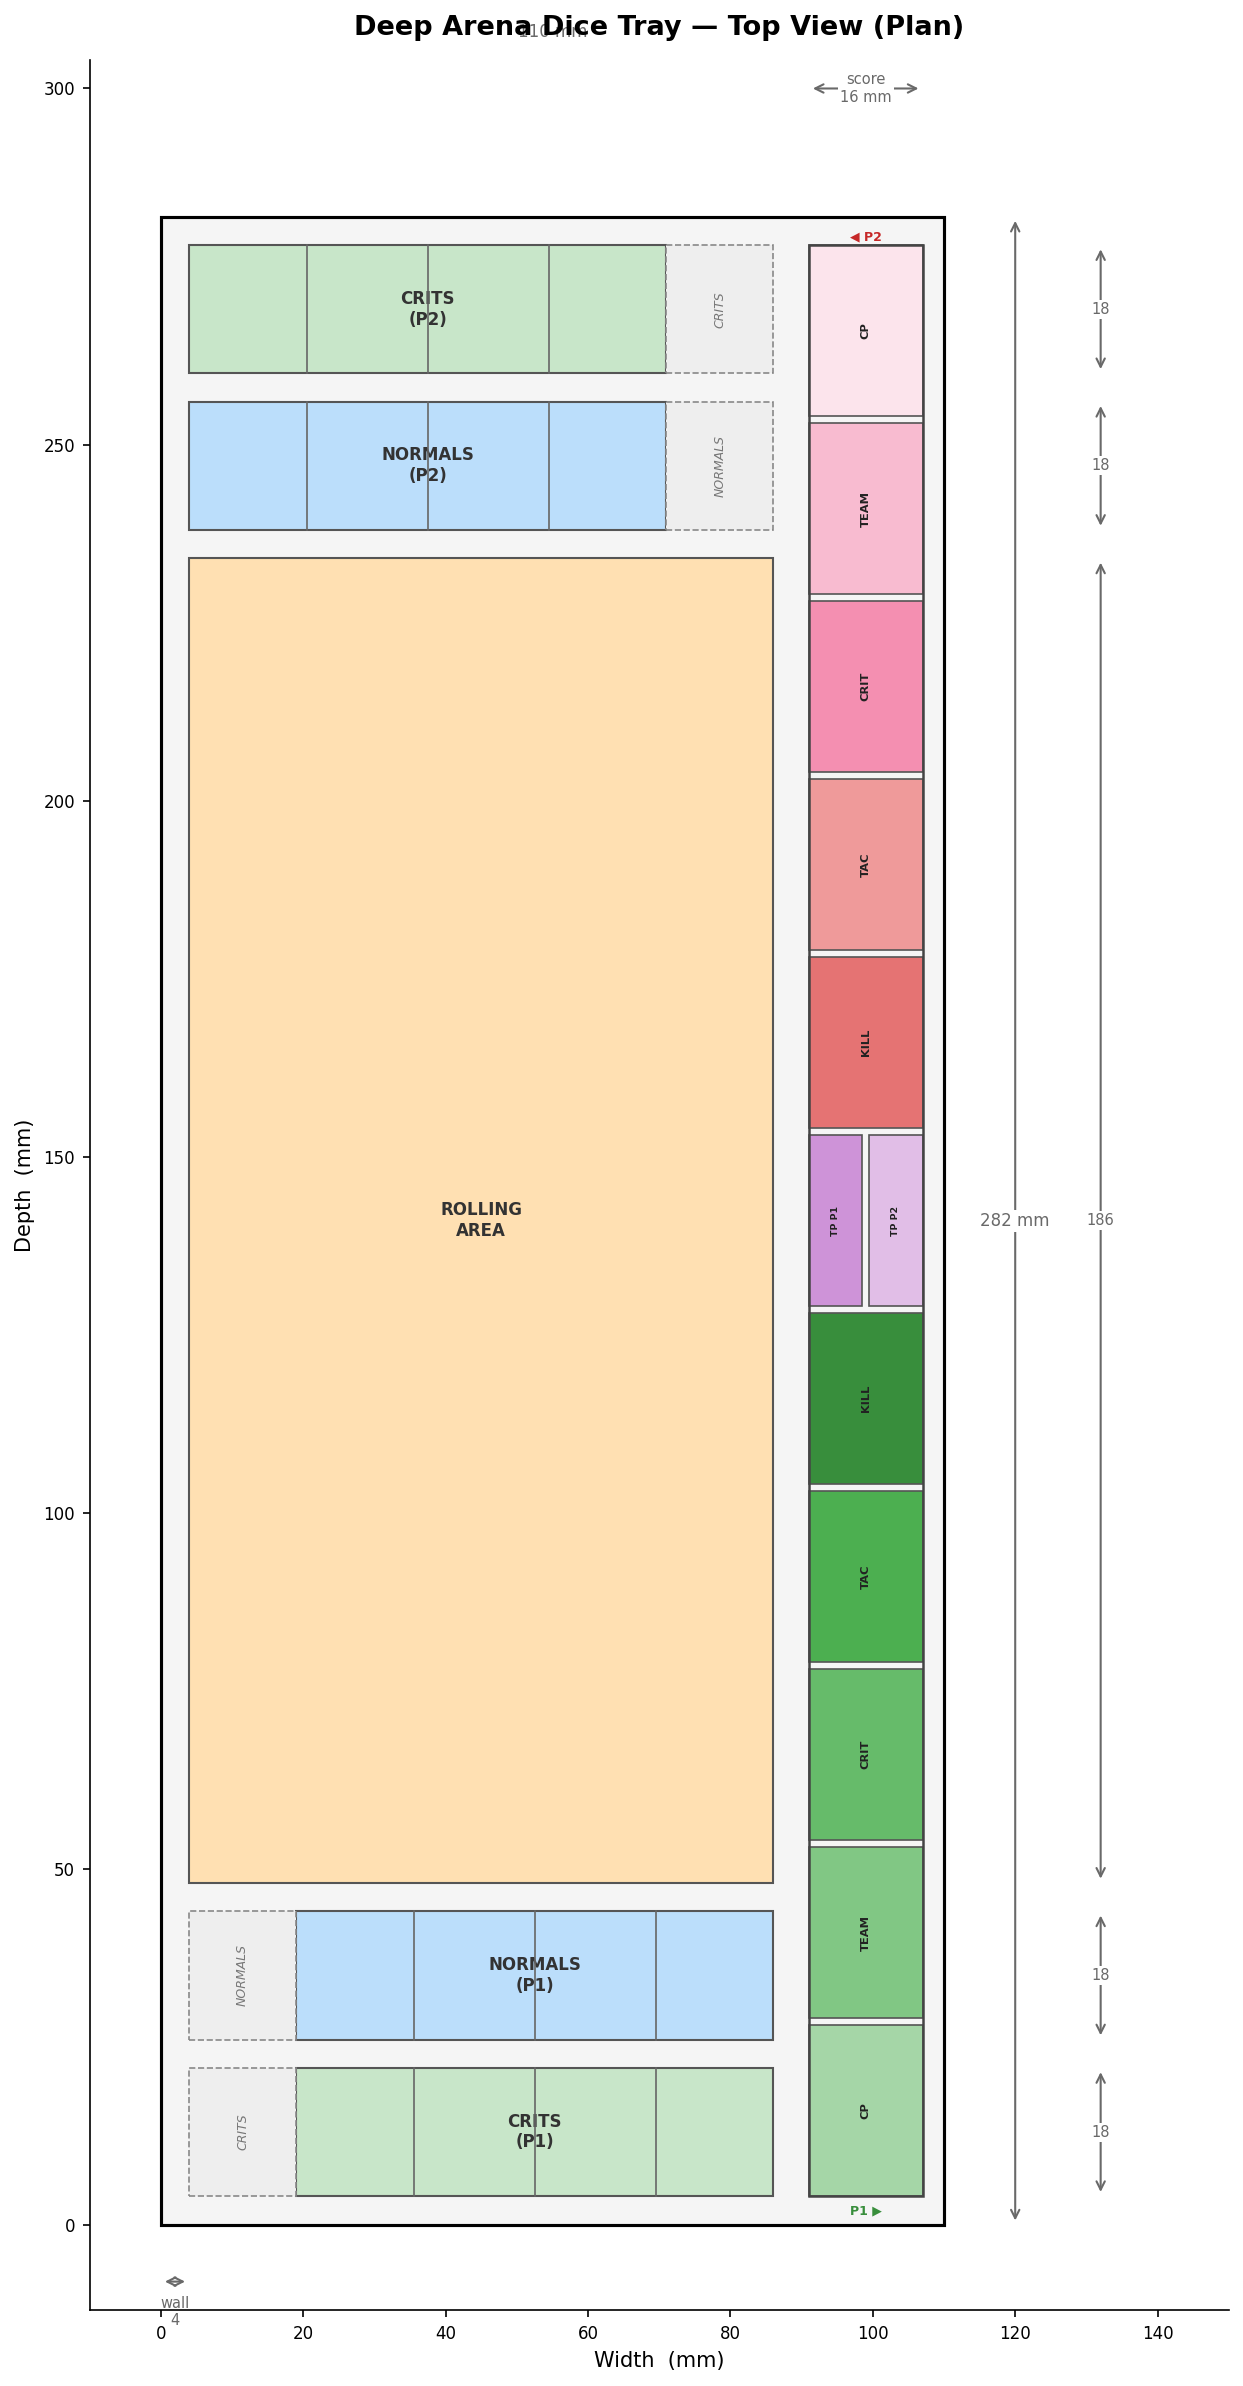
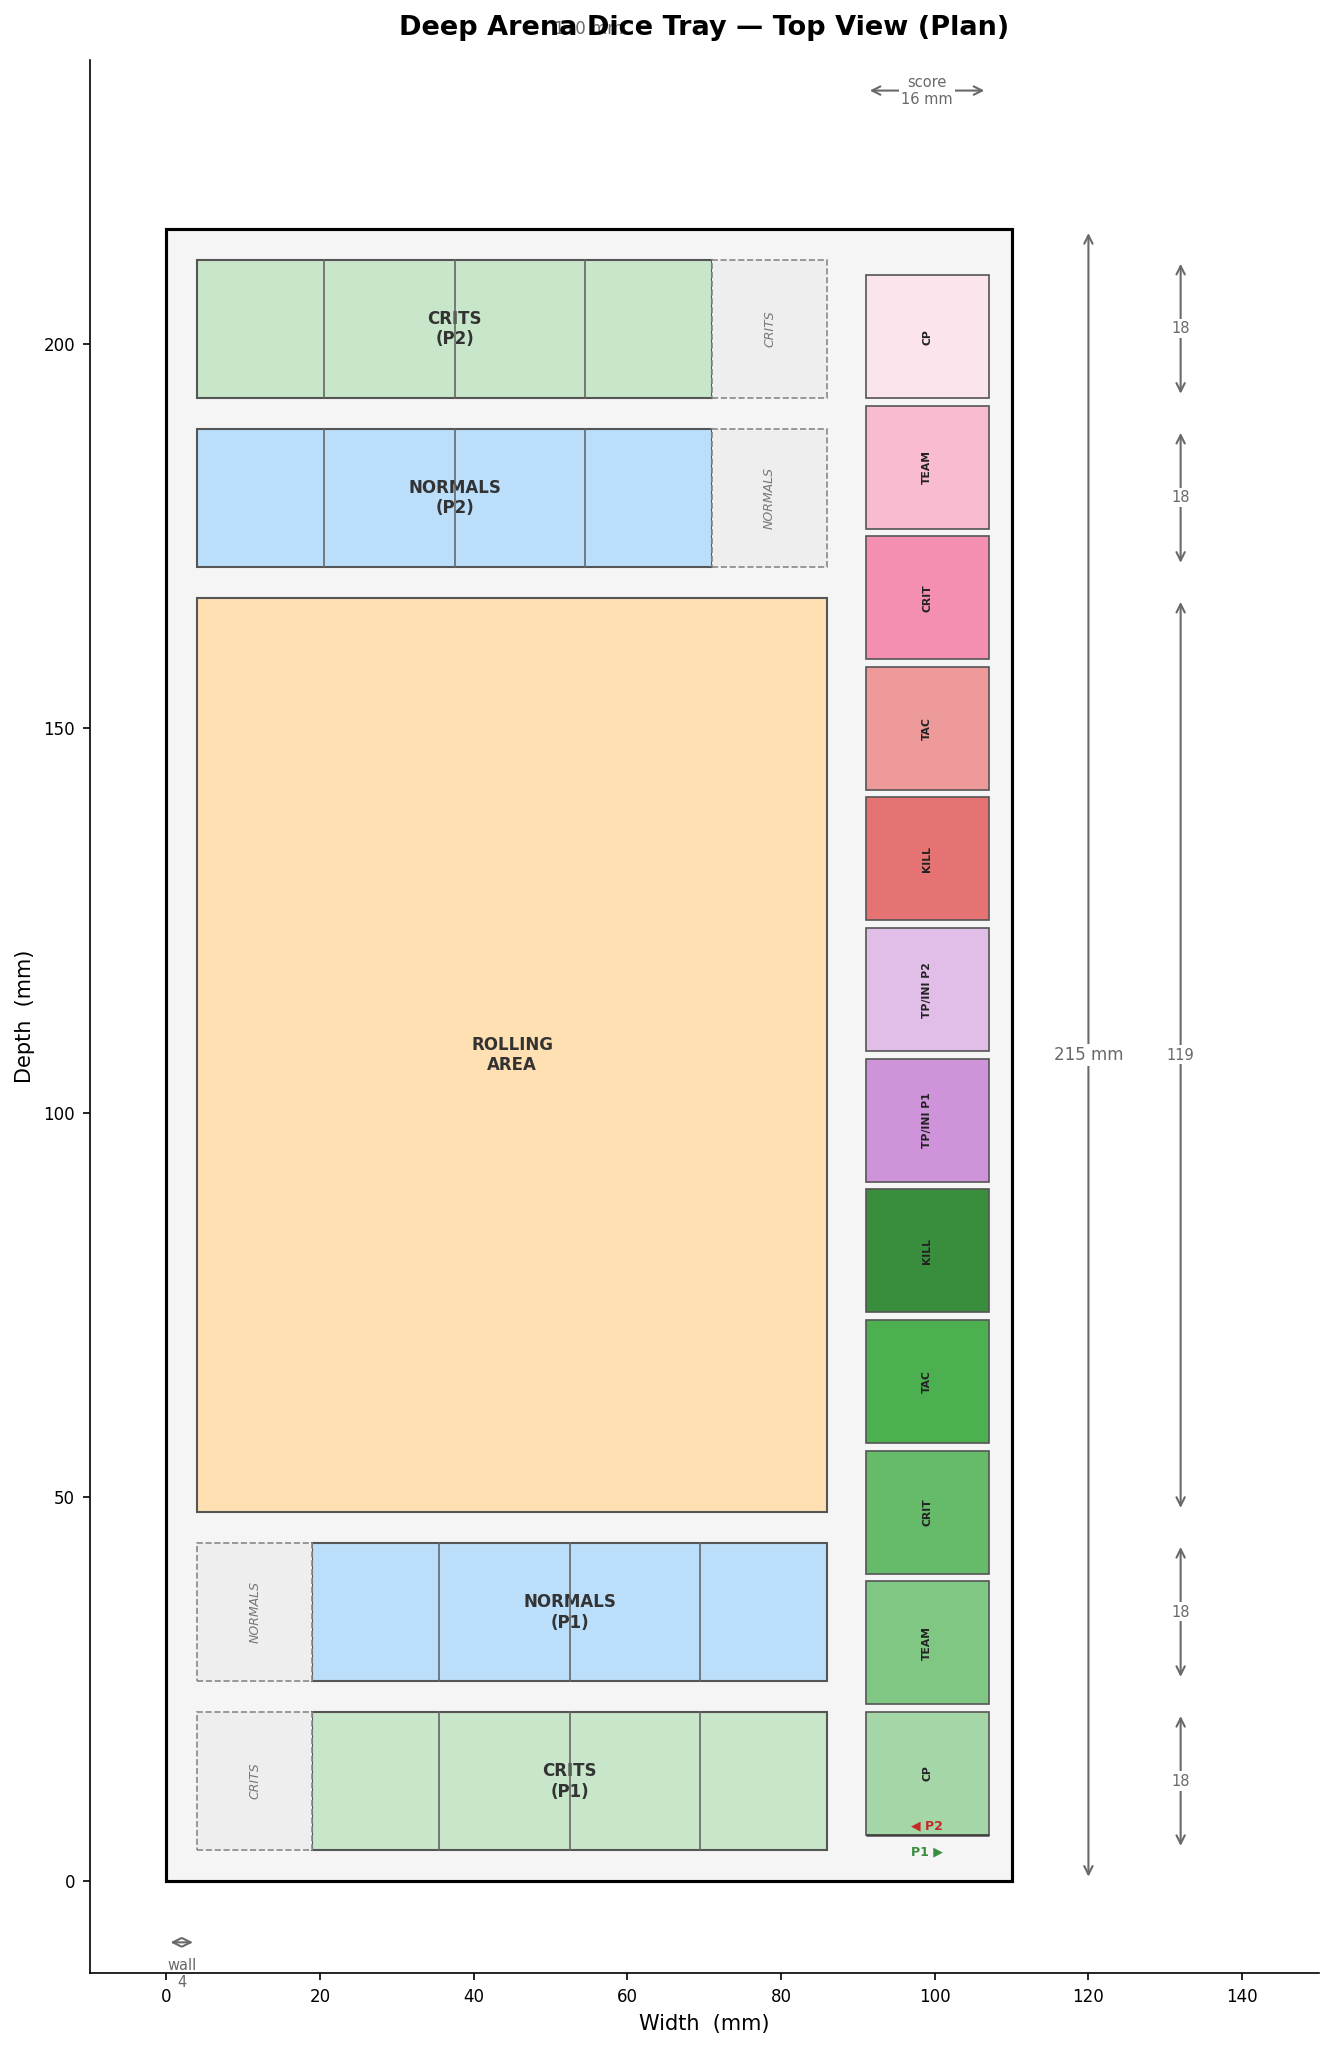
v3-score-tracker: finalize geometry with 215mm depth, fitted score strip, and corrected rolling area
- Set total_depth = 215mm (score span 203mm + 2mm buffer each end + 8mm walls)
- Score strip runs full interior depth with 2mm clearance at each end
- Reduced rolling area to 119mm depth to fit layout
- Fixed roll_d as literal value so diagram generator calculates correct total_depth
- All dice and score regions now confirmed within main box bounds
- Updated generate_diagrams.py to parse score_buffer parameter
- Regenerated all version diagrams (v1-original, v2-improved, v3-score-tracker)

diff --git a/wargaming/KT-dice-tray/generate_diagrams.py b/wargaming/KT-dice-tray/generate_diagrams.py
@@ -48,6 +48,7 @@ roll_d        = 100.0
 score_slot_d  = 16.0   # Y-depth of each score slot
 score_gap_w   = 1.0
 score_full_depth = 0
+score_buffer   = 0.0
 
 macro_path = os.path.join(OUT_DIR, "deep_arena_dice_tray.py")
 if os.path.exists(macro_path):
@@ -65,6 +66,7 @@ if os.path.exists(macro_path):
                 (r"score_slot_d\s*=\s*([0-9.]+)",   "score_slot_d"),
                 (r"score_gap_w\s*=\s*([0-9.]+)",    "score_gap_w"),
                 (r"score_full_depth\s*=\s*(True|False)", "score_full_depth"),
+                (r"score_buffer\s*=\s*([0-9.]+)",   "score_buffer"),
             ]:
                 _m = re.match(r"^\s*" + _pat, _line)
                 if _m:
@@ -106,22 +108,19 @@ else:
     roll_w        = width - wall * 2
 
 if has_score_strip and score_full_depth:
-    score_start_y = wall
-    score_span_d = total_depth - 2 * wall
-    score_slot_d = (score_span_d - max(0, n_score - 1) * slot_div) / max(1, n_score)
-else:
-    score_start_y = 0.0
+    score_span_d = n_score * score_slot_d + max(0, n_score - 1) * slot_div
+    score_start_y = wall + score_buffer
     score_span_d = 0.0
 
-# ── Score category labels (symmetric, P1 top → P2 bottom) ────────────────────
-# CP | TEAM | CRIT | TAC | KILL | TP/INI | KILL | TAC | CRIT | TEAM | CP
-SCORE_LABELS_SYM = ["CP", "TEAM", "CRIT", "TAC", "KILL", "TP/INI",
-                    "KILL", "TAC", "CRIT", "TEAM", "CP"]
-# Colours: outer (P1/P2 own) = green, shared centre = purple, mirror = pink
+# ── Score category labels (P1 top → P2 bottom) ───────────────────────────────
+# CP | TEAM | CRIT | TAC | KILL | TP/INI P1 | TP/INI P2 | KILL | TAC | CRIT | TEAM | CP
+SCORE_LABELS_SYM = [
+    "CP", "TEAM", "CRIT", "TAC", "KILL", "TP/INI P1",
+    "TP/INI P2", "KILL", "TAC", "CRIT", "TEAM", "CP"
+]
 _sym_colors = [
-    "#a5d6a7", "#81c784", "#66bb6a", "#4caf50", "#388e3c",   # P1 side
-    "#ce93d8",                                                  # TP/INI centre
-    "#e57373", "#ef9a9a", "#f48fb1", "#f8bbd0", "#fce4ec",   # P2 side (mirror)
+    "#a5d6a7", "#81c784", "#66bb6a", "#4caf50", "#388e3c", "#ce93d8",
+    "#e1bee7", "#e57373", "#ef9a9a", "#f48fb1", "#f8bbd0", "#fce4ec",
 ]
 
 # ── Shared helper ─────────────────────────────────────────────────────────────
@@ -228,34 +227,15 @@ for c in cavities:
 if has_score_strip:
     sy = score_start_y if score_full_depth else roll_start_y
     labels = SCORE_LABELS_SYM[:n_score]
-    mid_idx = len(labels) // 2
-    split_w = (die_slot_w - slot_div) / 2
     for i, lbl in enumerate(labels):
         color = _sym_colors[i] if i < len(_sym_colors) else "#e0e0e0"
-        if i == mid_idx:
-            left_rect = mpatches.Rectangle((score_strip_x, sy), split_w, score_slot_d,
-                                           linewidth=0.8, edgecolor="#555",
-                                           facecolor="#ce93d8", zorder=3)
-            right_rect = mpatches.Rectangle((score_strip_x + split_w + slot_div, sy),
-                                            split_w, score_slot_d,
-                                            linewidth=0.8, edgecolor="#555",
-                                            facecolor="#e1bee7", zorder=3)
-            ax.add_patch(left_rect)
-            ax.add_patch(right_rect)
-            ax.text(score_strip_x + split_w / 2, sy + score_slot_d / 2,
-                    "TP P1", ha="center", va="center", fontsize=4.5,
-                    fontweight="bold", color="#222", rotation=90)
-            ax.text(score_strip_x + split_w + slot_div + split_w / 2, sy + score_slot_d / 2,
-                    "TP P2", ha="center", va="center", fontsize=4.5,
-                    fontweight="bold", color="#222", rotation=90)
-        else:
-            slot_rect = mpatches.Rectangle((score_strip_x, sy), die_slot_w, score_slot_d,
-                                            linewidth=0.8, edgecolor="#555",
-                                            facecolor=color, zorder=3)
-            ax.add_patch(slot_rect)
-            ax.text(score_strip_x + die_slot_w / 2, sy + score_slot_d / 2,
-                    lbl, ha="center", va="center", fontsize=5.5,
-                    fontweight="bold", color="#222", rotation=90)
+        slot_rect = mpatches.Rectangle((score_strip_x, sy), die_slot_w, score_slot_d,
+                        linewidth=0.8, edgecolor="#555",
+                        facecolor=color, zorder=3)
+        ax.add_patch(slot_rect)
+        ax.text(score_strip_x + die_slot_w / 2, sy + score_slot_d / 2,
+            lbl, ha="center", va="center", fontsize=5.2,
+            fontweight="bold", color="#222", rotation=90)
         sy += score_slot_d + slot_div
 
     # Score strip outline

diff --git a/wargaming/KT-dice-tray/v3-score-tracker/deep_arena_dice_tray.py b/wargaming/KT-dice-tray/v3-score-tracker/deep_arena_dice_tray.py
@@ -24,13 +24,14 @@ base_h      = 25.0    # Total tray height (5mm floor under rolling cut)
 slot_cut_h  = 10.0    # Normals/crits die slots
 score_cut_h = 10.0    # Score strip die slots
 
-# --- Score strip (right side, running the full Y depth of the tray interior) ---
-# Single column, 11 symmetric slots:
-# P1 side (top): CP | TEAM | CRIT | TAC | KILL
-# Centre:        TP/INI split into two adjacent boxes (P1 and P2)
-# P2 side (bot): KILL | TAC | CRIT | TEAM | CP
-n_score     = 11
+# --- Score strip (right side, extending beyond rolling area toward both ends) ---
+# Single column, 12 stacked 16mm slots:
+# P1 side (top): CP | TEAM | CRIT | TAC | KILL | TP/INI P1
+# P2 side (bot): TP/INI P2 | KILL | TAC | CRIT | TEAM | CP
+n_score      = 12
+score_slot_d = 16.0
 score_full_depth = True
+score_edge_gap = 0.0   # No extra end gap: tray is only as long as score boxes require
 
 # X layout: wall(4) + ledge(15) + dice(67) + label-gap(5) + score(16) + r_wall(3) = 110
 dice_w       = n_dice * die_slot_w + (n_dice - 1) * slot_div   # 4*16 + 3*1 = 67mm
@@ -41,13 +42,15 @@ score_strip_x = wall + label_ledge + dice_w + score_gap_w        # x = 91mm
 # Rolling area: from x=wall to just before the label clearance gap
 roll_w = label_ledge + dice_w   # 15 + 67 = 82mm (x=4..86)
 
-# Total Y-depth of rolling area (unchanged central arena)
-roll_d = 186.0
+# Score-tracker span drives overall tray depth.
+# 12*16 + 11*1 = 203mm score span; + 2mm clearance each end; + 4mm walls each end.
+score_span_d = n_score * score_slot_d + (n_score - 1) * slot_div
+score_buffer = 2.0  # Safety margin at each end so score boxes don't touch walls
+total_depth = score_span_d + (2 * score_buffer) + (2 * wall)
 
-# --- Total Depth ---
-# 4 dice rows + rolling area + 6 walls
-# (18*4) + 186 + (4*6) = 72 + 186 + 24 = 282mm
-total_depth = (slot_d * 4) + roll_d + (wall * 6)
+# Rolling area depth is reduced to fit the new overall depth:
+# total_depth = 4*slot_d + roll_d + 6*wall  => roll_d = 215 - 72 - 24 = 119mm
+roll_d = 119.0
 
 # 1. Create the Main Body
 base = Part.makeBox(width, total_depth, base_h)
@@ -77,22 +80,12 @@ def cut_rolling(y_pos):
 # Symmetric layout (Y order, P1 end at top):
 # CP, TEAM, CRIT, TAC, KILL, TP/INI, KILL, TAC, CRIT, TEAM, CP
 def cut_score_strip_full_depth():
-    # Runs from inside top wall to inside bottom wall.
-    score_start_y = wall
-    score_span_d = total_depth - (2 * wall)
-    score_slot_d = (score_span_d - (n_score - 1) * slot_div) / n_score
-
-    # Middle row is split into two adjacent TP/INI boxes (P1 and P2).
-    mid_idx = n_score // 2
-    split_w = (die_slot_w - slot_div) / 2
+    # Keep each score box at 16mm and add buffer space from each end wall.
+    score_start_y = wall + score_buffer
 
     y = score_start_y
-    for i in range(n_score):
-        if i == mid_idx:
-            _cut_box(score_strip_x, y, score_cut_h, split_w, score_slot_d, score_cut_h)
-            _cut_box(score_strip_x + split_w + slot_div, y, score_cut_h, split_w, score_slot_d, score_cut_h)
-        else:
-            _cut_box(score_strip_x, y, score_cut_h, die_slot_w, score_slot_d, score_cut_h)
+    for _ in range(n_score):
+        _cut_box(score_strip_x, y, score_cut_h, die_slot_w, score_slot_d, score_cut_h)
         y += score_slot_d + slot_div
 
 # 2. Apply all cuts (Y: P1 end -> P2 end)
